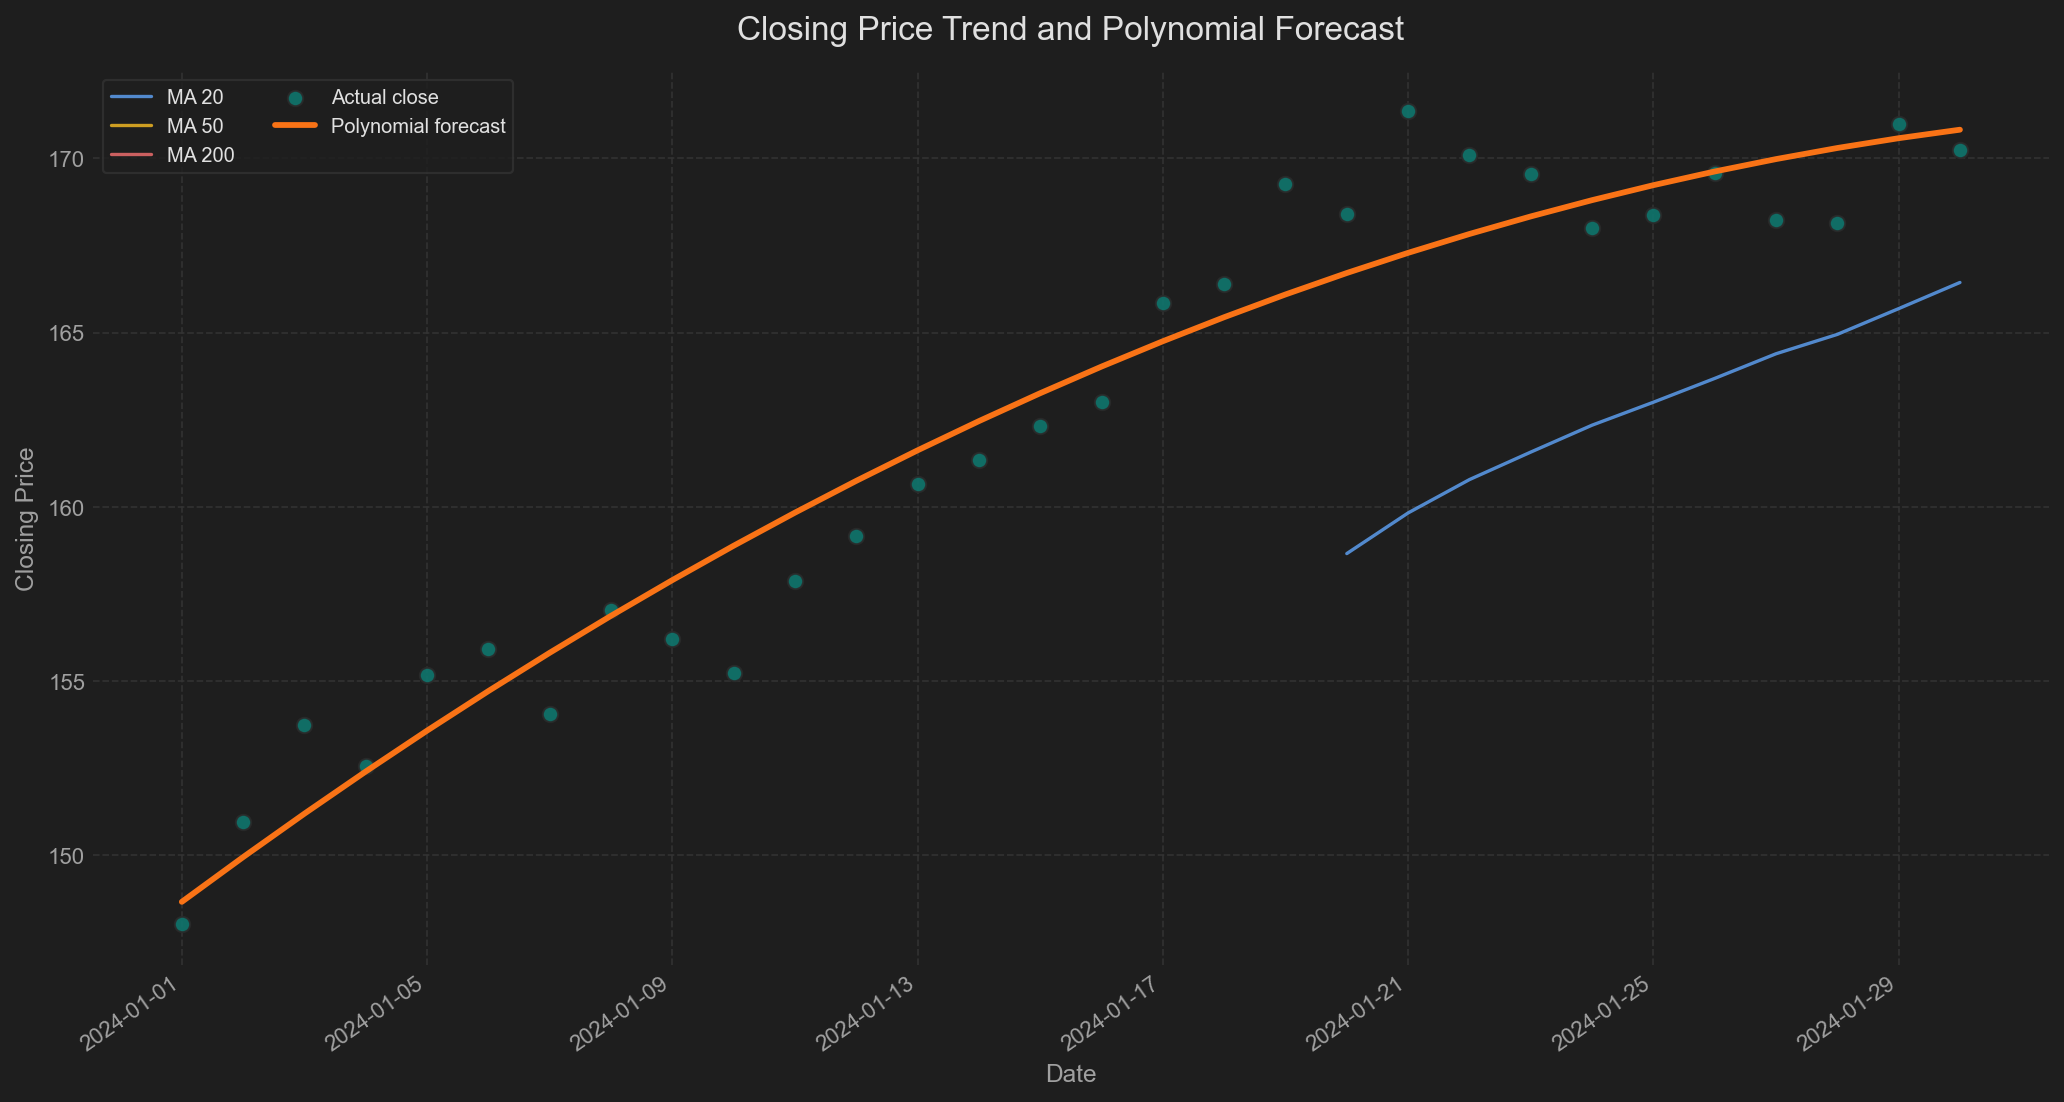
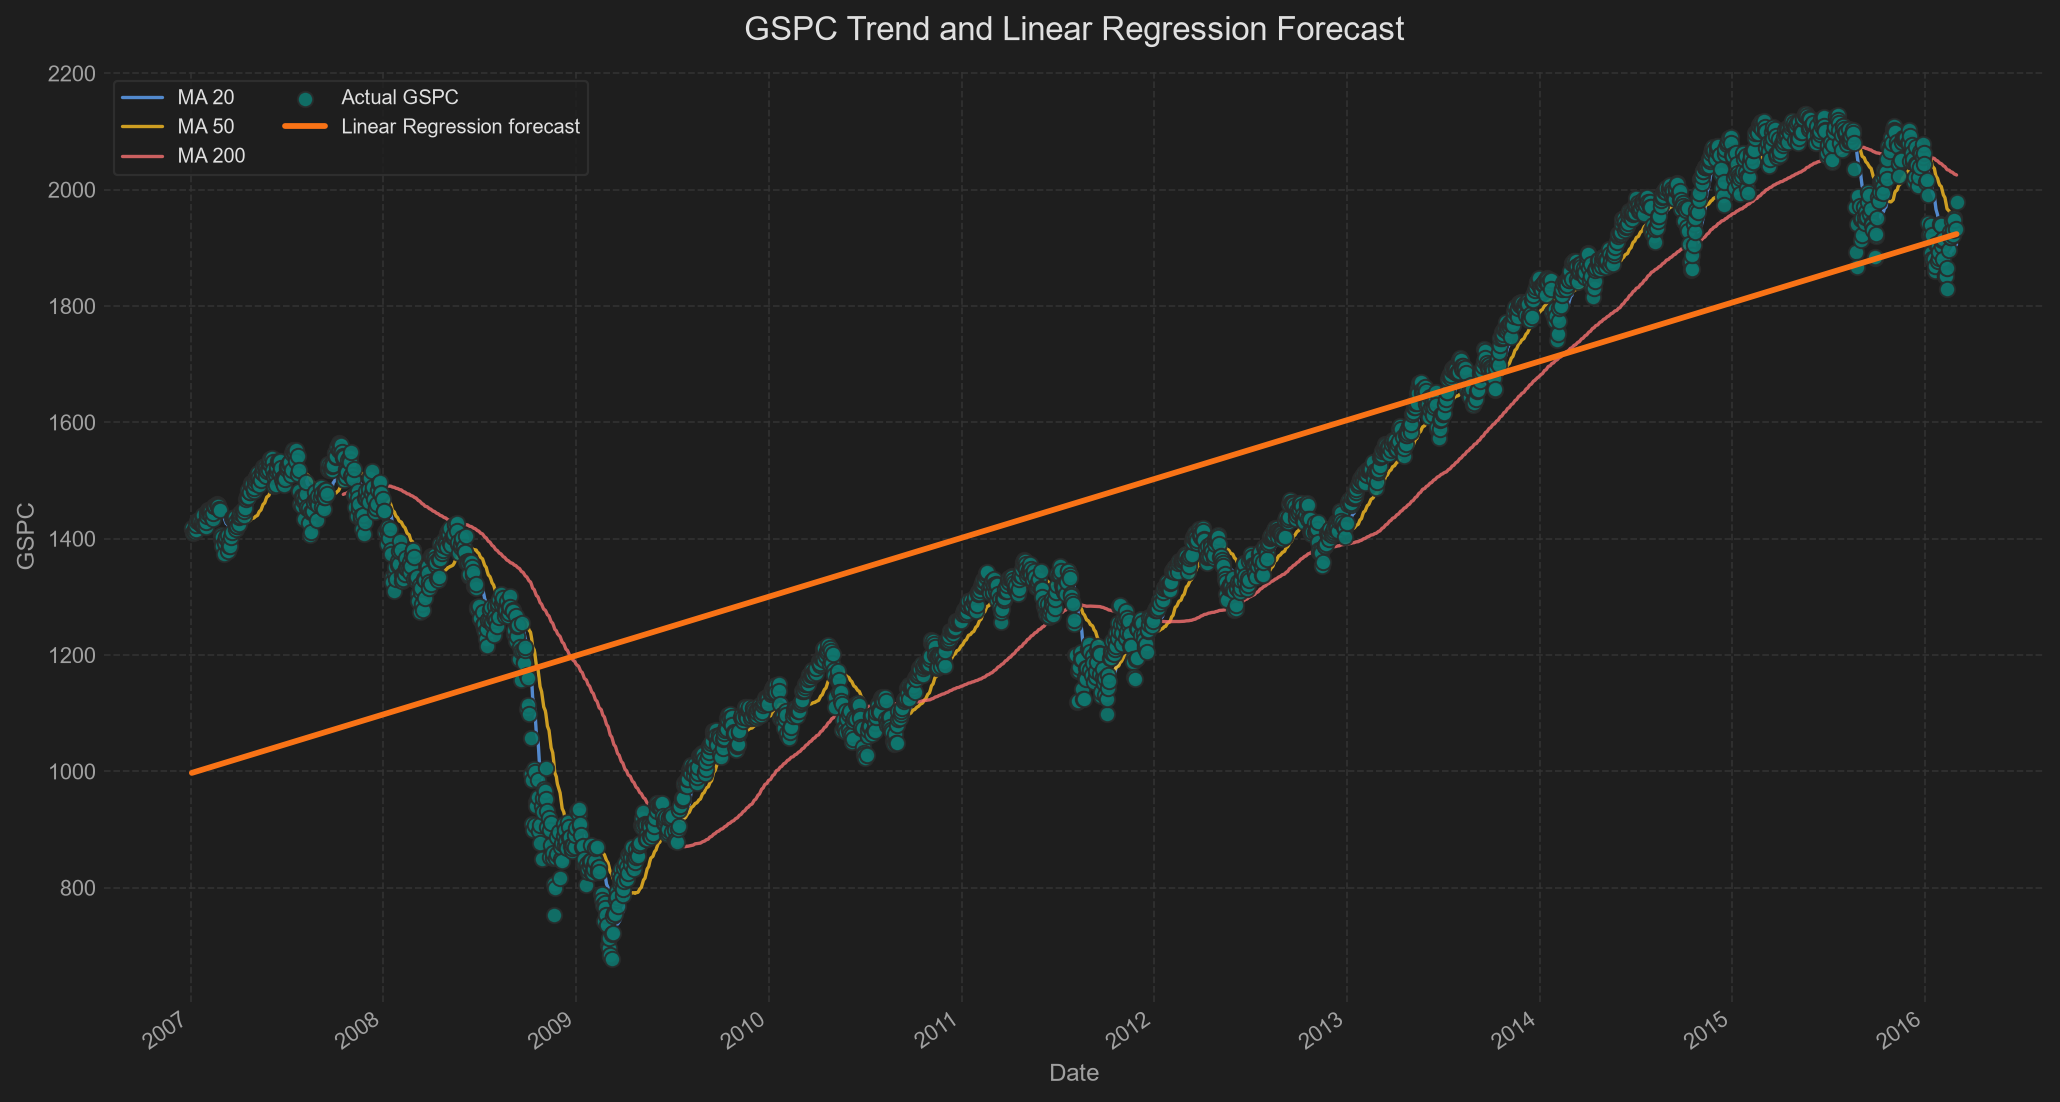
Fixed the other formats CSV files acceptions and fixed UI template

diff --git a/templates/index.html b/templates/index.html
@@ -3,7 +3,7 @@
     <head>
         <meta charset="utf-8">
         <meta name="viewport" content="width=device-width, initial-scale=1">
-        <title>Stock Price Prediction</title>
+        <title>Data Prediction</title>
         <link rel="stylesheet" href="{{ url_for('static', filename='styles_index.css') }}">
     </head>
     <body>
@@ -19,8 +19,8 @@
             <div class="center-card">
             <section class="app-card">
                 <header class="app-header">
-                    <p class="kicker">Stock Price Prediction</p>
-                    <h1>Upload your stock data file</h1>
+                    <p class="kicker">Data Prediction</p>
+                    <h1>Upload your data file</h1>
                     <p class="lead">
                         Use a CSV or Excel file to generate a simple prediction chart.
                     </p>

diff --git a/templates/result.html b/templates/result.html
@@ -38,8 +38,8 @@
                                 <strong>{{ summary.start_date }} to {{ summary.end_date }}</strong>
                             </article>
                             <article class="summary-card">
-                                <span>Latest close</span>
-                                <strong>${{ summary.latest_close }}</strong>
+                                <span>Latest {{ summary.target_name }}</span>
+                                <strong>{{ summary.latest_close }}</strong>
                             </article>
                             <article class="summary-card">
                                 <span>Avg daily change</span>

diff --git a/templates/compare.html b/templates/compare.html
@@ -18,7 +18,7 @@
                         <p class="topbar-meta">
                             {{ summary.points }} rows &nbsp;·&nbsp;
                             {{ summary.start_date }} → {{ summary.end_date }} &nbsp;·&nbsp;
-                            Latest close: <strong>{{ summary.latest_close }}</strong>
+                            Latest {{ summary.target_name }}: <strong>{{ summary.latest_close }}</strong>
                         </p>
                     </div>
                     <div class="topbar-actions">

diff --git a/ml_models/utils.py b/ml_models/utils.py
@@ -5,17 +5,63 @@ def _load_and_prep(filepath, start_date=None, end_date=None):
     extension = os.path.splitext(filepath)[1].lower()
     data = pd.read_csv(filepath) if extension == ".csv" else pd.read_excel(filepath)
 
-    required_columns = {"Date", "Close"}
-    missing = required_columns.difference(data.columns)
-    if missing:
-        raise ValueError(f"Missing required column(s): {', '.join(sorted(missing))}.")
+    # 1. Auto-detect Date Column
+    date_col_name = None
+    if "Date" in data.columns:
+        date_col_name = "Date"
+    else:
+        # Check for datetime columns
+        for col in data.columns:
+            if pd.api.types.is_datetime64_any_dtype(data[col]):
+                date_col_name = col
+                break
+        if not date_col_name:
+            # Try to parse string columns as dates
+            for col in data.columns:
+                if data[col].dtype == 'object':
+                    try:
+                        # Attempt to parse the first non-null value to see if it's a date
+                        sample = data[col].dropna().iloc[0]
+                        pd.to_datetime(sample)
+                        date_col_name = col
+                        break
+                    except:
+                        pass
+    
+    if date_col_name:
+        data["Date"] = pd.to_datetime(data[date_col_name], errors="coerce")
+    else:
+        # Generate dummy dates
+        data["Date"] = pd.date_range(start="2020-01-01", periods=len(data))
+        date_col_name = "Index"
 
-    data["Date"] = pd.to_datetime(data["Date"], errors="coerce")
-    data["Close"] = pd.to_numeric(data["Close"], errors="coerce")
+    # 2. Auto-detect Target Column
+    target_col_name = None
+    numeric_cols = data.select_dtypes(include=['number']).columns.tolist()
+    if "Date" in numeric_cols:
+        numeric_cols.remove("Date")
+    if date_col_name in numeric_cols:
+        numeric_cols.remove(date_col_name)
+
+    if not numeric_cols:
+        raise ValueError("No numeric columns found to predict.")
+
+    if "Close" in numeric_cols:
+        target_col_name = "Close"
+    elif "Target" in numeric_cols:
+        target_col_name = "Target"
+    elif "y" in numeric_cols:
+        target_col_name = "y"
+    else:
+        target_col_name = numeric_cols[-1]
+
+    data["Close"] = pd.to_numeric(data[target_col_name], errors="coerce")
+    
+    # 3. Clean and prepare
     data = data.dropna(subset=["Date", "Close"]).sort_values("Date").copy()
 
     if len(data) < 2:
-        raise ValueError("At least two valid rows with Date and Close values are required.")
+        raise ValueError("At least two valid rows with data are required.")
 
     # Apply date range filtering if provided
     if start_date:
@@ -30,10 +76,14 @@ def _load_and_prep(filepath, start_date=None, end_date=None):
 
     data["Days"] = (data["Date"] - data["Date"].min()).dt.days
     
-    # Calculate technical indicators
+    # Calculate technical indicators (Moving Averages)
     data["MA_20"] = data["Close"].rolling(window=20).mean()
     data["MA_50"] = data["Close"].rolling(window=50).mean()
     data["MA_200"] = data["Close"].rolling(window=200).mean()
+    
+    # Store original column names so we can use them in the UI and graphs
+    data.attrs["target_col_name"] = target_col_name
+    data.attrs["date_col_name"] = date_col_name
     
     return data
 

diff --git a/model.py b/model.py
@@ -21,6 +21,9 @@ from ml_models import (
 def run_model(filepath, model_type="Linear Regression", start_date=None, end_date=None):
     data = _load_and_prep(filepath, start_date, end_date)
     
+    target_name = data.attrs.get("target_col_name", "Close")
+    date_name = data.attrs.get("date_col_name", "Date")
+    
     # Feature selection logic
     features = ["Days"]
     if model_type == "Multiple Regression":
@@ -100,16 +103,16 @@ def run_model(filepath, model_type="Linear Regression", start_date=None, end_dat
         ax.plot(data.loc[ma200_mask, "Date"], data.loc[ma200_mask, "MA_200"], 
                 color="#f87171", linewidth=1.5, label="MA 200", alpha=0.8, zorder=2)
 
-        ax.scatter(data["Date"], data["Close"], label="Actual close",
+        ax.scatter(data["Date"], data["Close"], label=f"Actual {target_name}",
                    color="#0f766e", s=48, alpha=0.9, edgecolors="#2a2a2a", linewidths=0.9, zorder=3)
         ax.plot(plot_dates, predictions, color="#f97316", linewidth=2.6,
                 label=f"{model_type} forecast", zorder=4)
 
     title_suffix = "Analysis" if is_unsupervised else "Forecast"
-    ax.set_title(f"Closing Price Trend and {model_type} {title_suffix}", 
+    ax.set_title(f"{target_name} Trend and {model_type} {title_suffix}", 
                  fontsize=15, pad=14, color="#e0e0e0")
-    ax.set_xlabel("Date", fontsize=11, color="#a0a0a0")
-    ax.set_ylabel("Closing Price", fontsize=11, color="#a0a0a0")
+    ax.set_xlabel(date_name, fontsize=11, color="#a0a0a0")
+    ax.set_ylabel(target_name, fontsize=11, color="#a0a0a0")
     ax.grid(True, color="#333333", linestyle="--", linewidth=0.8, alpha=0.9)
     ax.legend(loc="upper left", frameon=True, facecolor="#1e1e1e",
               edgecolor="#333333", fontsize=9, labelcolor="#e0e0e0", ncol=2)
@@ -135,12 +138,17 @@ def run_model(filepath, model_type="Linear Regression", start_date=None, end_dat
         "7day_change": metrics["7day_change_%"],
         "30day_change": metrics["30day_change_%"],
         "overall_change": metrics["overall_change_%"],
+        "target_name": target_name,
+        "date_name": date_name
     }
     return graph_path, summary
 
 def run_all_models(filepath):
     data = _load_and_prep(filepath)
     X, y = data[["Days"]], data["Close"]
+
+    target_name = data.attrs.get("target_col_name", "Close")
+    date_name = data.attrs.get("date_col_name", "Date")
 
     models = {
         "Linear Regression": LinearRegressionModel(),
@@ -185,15 +193,15 @@ def run_all_models(filepath):
     fig1, ax1 = plt.subplots(figsize=(13, 6.5), facecolor="#1e1e1e")
     ax1.set_facecolor("#1e1e1e")
 
-    ax1.scatter(data["Date"], data["Close"], label="Actual close",
+    ax1.scatter(data["Date"], data["Close"], label=f"Actual {target_name}",
                 color="#0f766e", s=28, alpha=0.7, edgecolors="#2a2a2a", linewidths=0.6, zorder=3)
     for name, preds in predictions_map.items():
         mask = ~np.isnan(preds)
         ax1.plot(data["Date"][mask], preds[mask], color=colors[name], linewidth=2.2, label=name, zorder=4)
 
     ax1.set_title("All Models — Forecast Overlay", fontsize=15, pad=14, color="#e0e0e0")
-    ax1.set_xlabel("Date", fontsize=11, color="#a0a0a0")
-    ax1.set_ylabel("Closing Price", fontsize=11, color="#a0a0a0")
+    ax1.set_xlabel(date_name, fontsize=11, color="#a0a0a0")
+    ax1.set_ylabel(target_name, fontsize=11, color="#a0a0a0")
     ax1.grid(True, color="#333333", linestyle="--", linewidth=0.8, alpha=0.9)
     ax1.legend(loc="upper left", frameon=True, facecolor="#1e1e1e",
                edgecolor="#333333", fontsize=10, labelcolor="#e0e0e0")
@@ -249,6 +257,8 @@ def run_all_models(filepath):
         "start_date": data["Date"].min().strftime("%d %b %Y"),
         "end_date":   data["Date"].max().strftime("%d %b %Y"),
         "latest_close": f"{data['Close'].iloc[-1]:.2f}",
+        "target_name": target_name,
+        "date_name": date_name
     }
 
     return overlay_path, accuracy_path, results, summary

diff --git a/Readme.md b/Readme.md
@@ -28,9 +28,13 @@ A Flask web app for uploading stock data and visualizing closing price trends us
 
 ## Input Format
 
-File must contain at least these two columns:
+The application now supports **generic sequential data**. It will automatically detect:
+1. **Date/Time column** (if none is found, it will generate a sequence index).
+2. **Target column** (looks for "Close", "Target", "y", or defaults to the last numeric column).
 
-| Date | Close |
+Example of a valid file:
+
+| Date | Sales |
 |---|---|
 | 2024-01-01 | 150.00 |
 | 2024-01-02 | 152.50 |